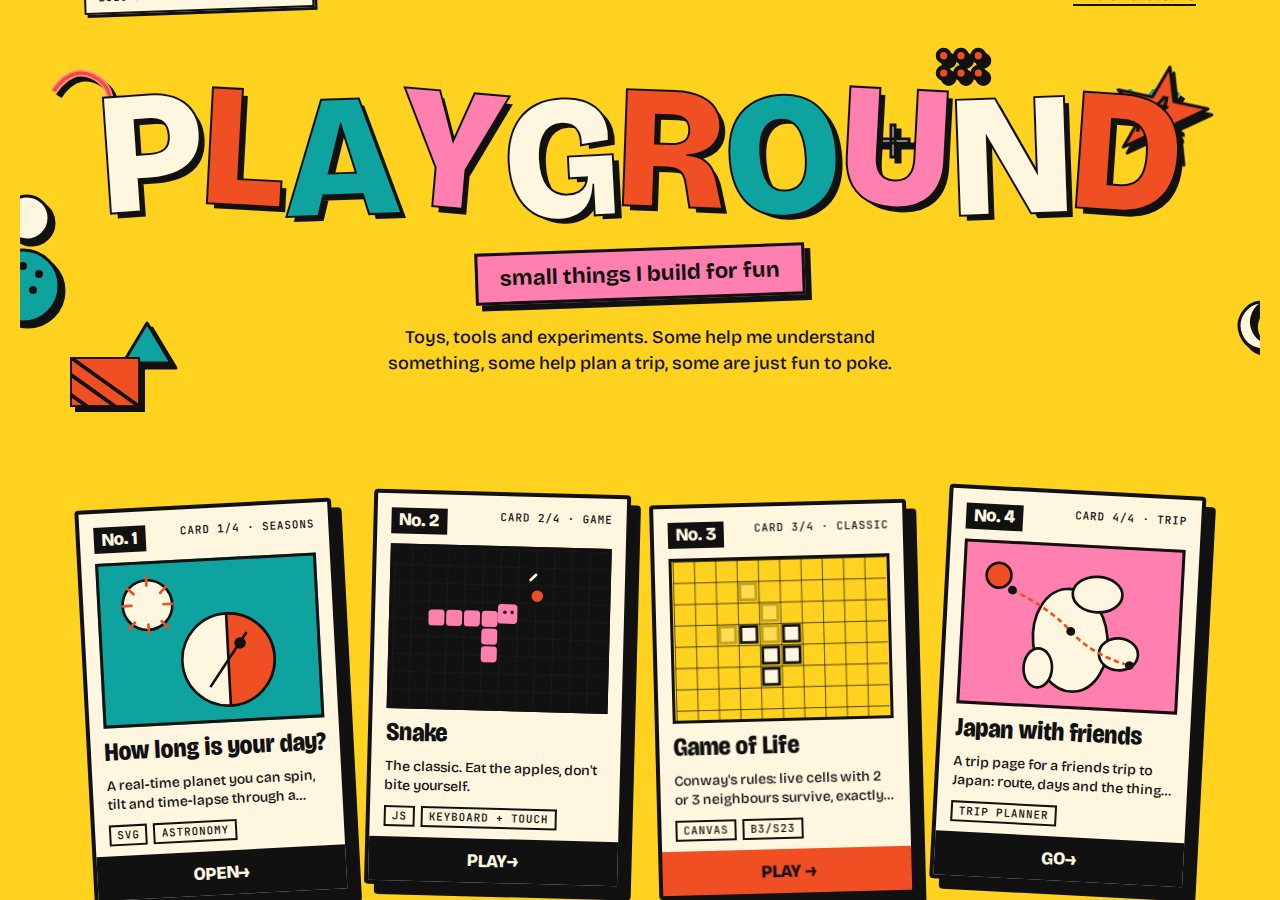
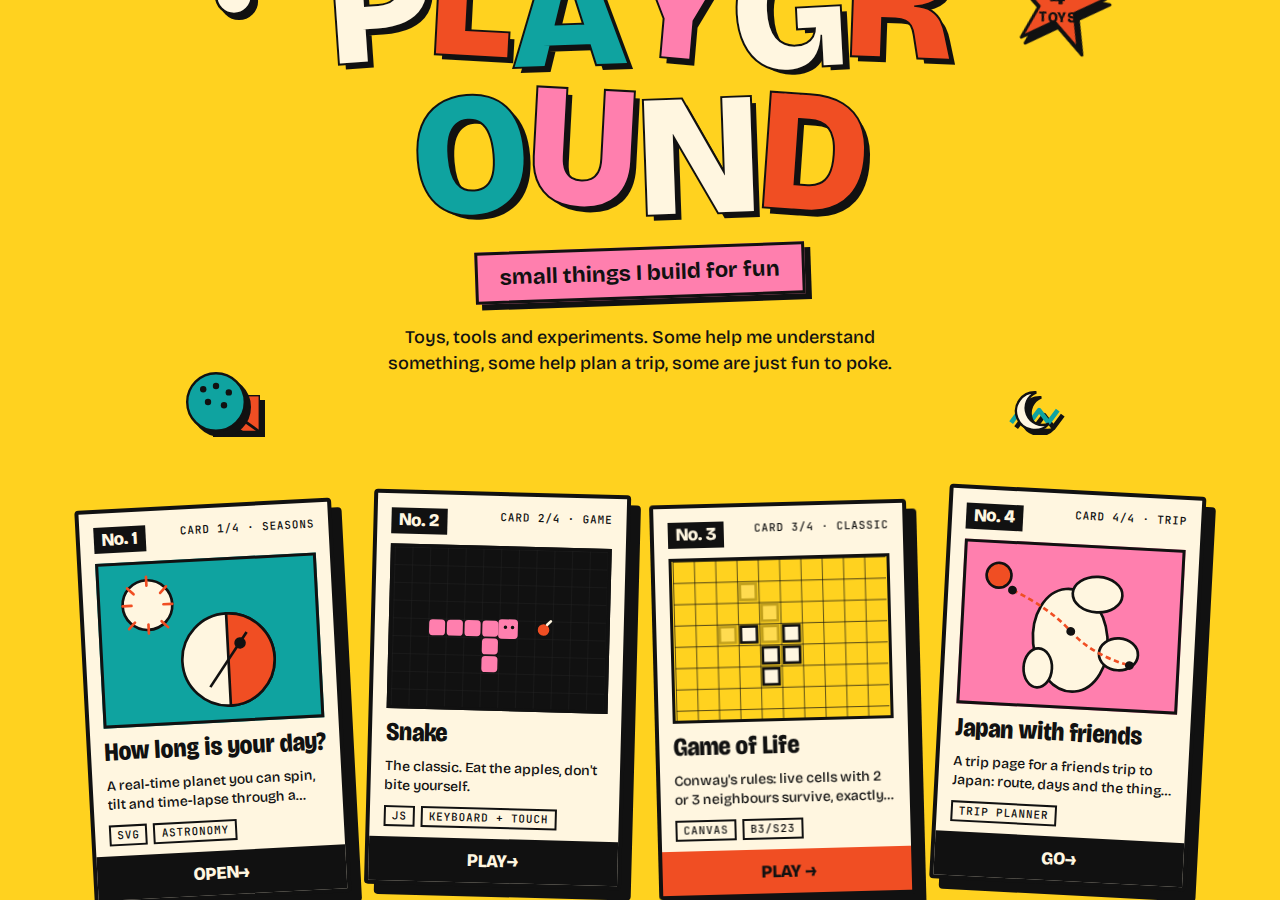
fix(playground): clear sticker overlaps, starburst label, snake grid, footer

diff --git a/playground/index.html b/playground/index.html
@@ -33,6 +33,7 @@ a{color:inherit}
 .back-link:focus-visible{outline:4px solid var(--tomato);outline-offset:4px}
 @media(max-width:640px){.back-link{display:none}}
 .hero{position:relative;padding:48px 0 64px;text-align:center}
+@media(max-width:640px){.hero{padding-bottom:100px}}
 .title{font-family:var(--display);font-size:var(--h1);font-weight:800;font-stretch:100%;line-height:.86;letter-spacing:-.01em;text-transform:uppercase;margin:0;display:flex;flex-wrap:wrap;justify-content:center;gap:0 .02em}
 @media(max-width:640px){.title{font-stretch:75%}}
 .title span{display:inline-block;-webkit-text-stroke:var(--line-lg) var(--ink);paint-order:stroke fill;text-shadow:6px 6px 0 var(--ink)}
@@ -43,24 +44,31 @@ body.ready .title span{opacity:1;transition:transform var(--t-hero) var(--ease-p
 body.ready .title span:nth-child(1){transition-delay:0ms}body.ready .title span:nth-child(2){transition-delay:40ms}body.ready .title span:nth-child(3){transition-delay:80ms}body.ready .title span:nth-child(4){transition-delay:120ms}body.ready .title span:nth-child(5){transition-delay:160ms}body.ready .title span:nth-child(6){transition-delay:200ms}body.ready .title span:nth-child(7){transition-delay:240ms}body.ready .title span:nth-child(8){transition-delay:280ms}body.ready .title span:nth-child(9){transition-delay:320ms}body.ready .title span:nth-child(10){transition-delay:360ms}
 body.ready .title span:nth-child(1){transform:rotate(-4deg) translateY(0)}body.ready .title span:nth-child(2){transform:rotate(3deg) translateY(-6px)}body.ready .title span:nth-child(3){transform:rotate(-2deg) translateY(4px)}body.ready .title span:nth-child(4){transform:rotate(5deg) translateY(-3px)}body.ready .title span:nth-child(5){transform:rotate(-3deg) translateY(6px)}body.ready .title span:nth-child(6){transform:rotate(2deg) translateY(-4px)}body.ready .title span:nth-child(7){transform:rotate(-5deg) translateY(2px)}body.ready .title span:nth-child(8){transform:rotate(3deg) translateY(-6px)}body.ready .title span:nth-child(9){transform:rotate(-2deg) translateY(3px)}body.ready .title span:nth-child(10){transform:rotate(4deg) translateY(0)}
 .ribbon{display:inline-block;margin:20px auto 0;background:var(--pink);border:var(--line) solid var(--ink);box-shadow:var(--shadow);transform:rotate(-2deg);padding:10px 22px;font:700 22px/1.2 var(--text)}
-.lede{max-width:46ch;margin:24px auto 0;font-size:18px}
-.badge-star{position:absolute;right:4%;top:8%;width:100px;height:100px;transform:rotate(12deg);filter:drop-shadow(5px 5px 0 #111)}
-.badge-star text{font-family:var(--display);font-weight:800;font-size:22px;fill:var(--ink)}
-@media(max-width:640px){.badge-star{width:72px;height:72px;right:var(--gutter);top:12%}.badge-star text{font-size:16px}}
-.stickers{pointer-events:none;position:absolute;inset:0;overflow:hidden}
+.lede{max-width:46ch;margin:24px auto 0;font-size:18px;position:relative;z-index:2}
+.hero-copy{position:relative;z-index:2;max-width:720px;margin:0 auto;padding-inline:8px}
+.badge-star{position:absolute;width:100px;height:100px;transform:rotate(12deg);filter:drop-shadow(5px 5px 0 #111);z-index:4;pointer-events:none}
+.badge-star svg{display:block;width:100%;height:100%}
+.badge-star-label{position:absolute;inset:0;display:flex;flex-direction:column;align-items:center;justify-content:center;font-family:var(--display);font-weight:800;color:var(--ink);line-height:1.05;text-align:center;transform:rotate(-12deg)}
+.badge-star-label span:first-child{font-size:26px}
+.badge-star-label span:last-child{font-size:15px;letter-spacing:.04em}
+@media(min-width:760px){.badge-star{left:calc(50% + 368px);right:auto;top:24px}}
+@media(max-width:759px){.badge-star{right:max(8px,var(--gutter));left:auto;top:16px}}
+@media(max-width:640px){.badge-star{width:72px;height:72px;right:14px;left:auto;top:118px}.badge-star-label span:first-child{font-size:20px}.badge-star-label span:last-child{font-size:11px}}
+.stickers{pointer-events:none;position:absolute;inset:0;z-index:1;overflow:visible}
 .stk{position:absolute;filter:drop-shadow(5px 5px 0 #111)}
-.stk-sq{left:2%;top:6%;width:88px}
-.stk-dots{right:22%;top:4%;width:52px}
-.stk-ring{left:-2%;top:38%;width:64px}
-.stk-tri{left:8%;bottom:18%;width:56px}
-.stk-plus{right:28%;top:22%;width:40px}
-.stk-zig{right:6%;top:14%;width:72px}
-.stk-strip{left:4%;bottom:8%;width:70px}
-.stk-polka{left:-3%;bottom:28%;width:80px}
-.stk-moon{right:-2%;bottom:22%;width:56px}
-@media(max-width:640px){.stk-plus,.stk-tri,.stk-strip,.stk-moon{display:none}.stk-sq,.stk-dots,.stk-ring,.stk-zig,.stk-polka{transform:scale(.6);transform-origin:center}}
-@media(min-width:641px) and (max-width:900px){.stk{transform:scale(.85)}}
-@media(min-width:1920px){.stk{transform:scale(1.15)}}
+.stk-sq{left:max(4px,var(--gutter));top:2px;width:64px}
+.stk-dots{right:max(4px,var(--gutter));top:2px;width:44px}
+.stk-ring{left:-22px;top:88px;width:52px}
+.stk-tri{left:max(16px,var(--gutter));bottom:12px;width:44px}
+.stk-plus{left:max(4px,var(--gutter));top:248px;width:32px}
+.stk-zig{right:max(4px,var(--gutter));top:248px;width:56px}
+.stk-strip{left:max(56px,var(--gutter));bottom:8px;width:52px}
+.stk-polka{left:-38px;bottom:6px;width:64px}
+.stk-moon{right:-22px;bottom:10px;width:44px}
+@media(min-width:760px){.stk-sq,.stk-ring,.stk-tri,.stk-strip{left:max(8px,calc(50% - 432px));right:auto}.stk-plus{left:max(8px,calc(50% - 432px));top:auto;bottom:14px}.stk-polka{left:max(-42px,calc(50% - 456px));bottom:6px}.stk-dots,.stk-zig,.stk-moon{left:calc(50% + 368px);right:auto}.stk-dots{top:2px}.stk-zig{top:auto;bottom:14px}.stk-moon{bottom:10px}}
+@media(max-width:640px){.stk-plus,.stk-tri,.stk-strip,.stk-moon{display:none}.stk-sq{top:4px;left:20px;width:50px}.stk-dots{top:4px;right:20px;width:36px}.stk-ring{top:auto;bottom:16px;left:20px;width:40px}.stk-zig{bottom:16px;right:20px;top:auto;width:48px}.stk-polka{left:8px;top:auto;bottom:10px;width:48px;transform:scale(.6);transform-origin:bottom left}}
+@media(min-width:641px) and (max-width:900px){.stk-sq,.stk-dots{width:60px}}
+@media(min-width:1920px){.stk{transform:scale(1.15);transform-origin:center}}
 .cards{margin-top:56px}
 .cards h2{font-family:var(--display);font-size:var(--h2);font-weight:800;font-stretch:88%;text-transform:uppercase;margin:0 0 28px}
 .card-grid{display:grid;gap:28px;grid-template-columns:1fr;align-items:start;justify-items:center}
@@ -116,8 +124,8 @@ body.ready .toy-card:nth-child(1){transition-delay:400ms}body.ready .toy-card:nt
 footer{padding:40px 0 56px;font-size:15px;line-height:1.6}
 footer a{text-underline-offset:3px;text-decoration-thickness:2px}
 footer a:focus-visible{outline:4px solid var(--tomato);outline-offset:2px}
-.footer-back{display:none}
-@media(max-width:640px){.footer-back{display:inline}}
+.footer-back,.footer-sep-mobile{display:none}
+@media(max-width:640px){.footer-back,.footer-sep-mobile{display:inline}}
 .snake-head{transition:transform var(--t-ui) var(--ease-out)}
 .life-g0,.life-g1{transition:opacity var(--t-ui) var(--ease-out)}
 .life-g1{opacity:0}
@@ -145,10 +153,12 @@ body:not(.ready) .title span,body:not(.ready) .toy-card{opacity:1}
 <svg class="stk stk-polka" viewBox="0 0 80 80" aria-hidden="true"><circle cx="40" cy="40" r="36" fill="var(--teal)" stroke="var(--ink)" stroke-width="3"/><g fill="var(--ink)"><circle cx="24" cy="24" r="4"/><circle cx="40" cy="20" r="4"/><circle cx="56" cy="28" r="4"/><circle cx="30" cy="40" r="4"/><circle cx="50" cy="44" r="4"/></g></svg>
 <svg class="stk stk-moon" viewBox="0 0 56 56" aria-hidden="true"><path d="M36 8a24 24 0 1 0 16 40A20 20 0 0 1 36 8z" fill="var(--cream)" stroke="var(--ink)" stroke-width="3"/></svg>
 </div>
-<svg class="badge-star" viewBox="0 0 100 100" aria-hidden="true"><polygon points="50,2 61,35 96,35 68,56 79,90 50,68 21,90 32,56 4,35 39,35" fill="var(--tomato)" stroke="var(--ink)" stroke-width="3" stroke-linejoin="round"/><text x="50" y="46" text-anchor="middle">4</text><text x="50" y="72" text-anchor="middle">TOYS</text></svg>
+<div class="hero-copy">
+<div class="badge-star" aria-hidden="true"><svg viewBox="0 0 100 100" aria-hidden="true"><polygon points="50,2 61,35 96,35 68,56 79,90 50,68 21,90 32,56 4,35 39,35" fill="#f04e23" stroke="#111" stroke-width="3" stroke-linejoin="round"/></svg><div class="badge-star-label"><span>4</span><span>TOYS</span></div></div>
 <h1 class="title" aria-label="Playground"><span class="c0" aria-hidden="true">P</span><span class="c1" aria-hidden="true">L</span><span class="c2" aria-hidden="true">A</span><span class="c3" aria-hidden="true">Y</span><span class="c0" aria-hidden="true">G</span><span class="c1" aria-hidden="true">R</span><span class="c2" aria-hidden="true">O</span><span class="c3" aria-hidden="true">U</span><span class="c0" aria-hidden="true">N</span><span class="c1" aria-hidden="true">D</span></h1>
 <p class="ribbon">small things I build for fun</p>
 <p class="lede">Toys, tools and experiments. Some help me understand something, some help plan a trip, some are just fun to poke.</p>
+</div>
 </header>
 <main class="wrap cards">
 <h2 class="sr-only">The toys</h2>
@@ -163,7 +173,7 @@ body:not(.ready) .title span,body:not(.ready) .toy-card{opacity:1}
 </a>
 <a class="toy-card card-snake" href="https://pipa.github.io/SnakeGame/" rel="noopener">
 <div class="card-head"><span class="tab">No. 2</span><span class="card-meta">Card 2/4 · Game</span></div>
-<div class="art-win" style="background:var(--ink)"><svg viewBox="0 0 240 180" aria-hidden="true"><defs><pattern id="sg" width="20" height="20" patternUnits="userSpaceOnUse"><path d="M20 0H0V20" fill="none" stroke="#222" stroke-width="1"/></pattern></defs><rect width="240" height="180" fill="url(#sg)"/><g fill="var(--pink)"><rect x="40" y="70" width="18" height="18" rx="4"/><rect x="60" y="70" width="18" height="18" rx="4"/><rect x="80" y="70" width="18" height="18" rx="4"/><rect x="100" y="70" width="18" height="18" rx="4"/><rect x="100" y="90" width="18" height="18" rx="4"/><rect x="100" y="110" width="18" height="18" rx="4"/></g><g class="snake-head"><rect x="118" y="62" width="22" height="22" rx="4" fill="var(--pink)"/><circle cx="126" cy="71" r="2" fill="var(--ink)"/><circle cx="134" cy="71" r="2" fill="var(--ink)"/></g><circle cx="162" cy="52" r="8" fill="var(--tomato)" stroke="var(--ink)" stroke-width="3"/><path d="M154 34l6-6" stroke="var(--cream)" stroke-width="3" stroke-linecap="round"/></svg></div>
+<div class="art-win" style="background:var(--ink)"><svg viewBox="0 0 240 180" aria-hidden="true"><defs><pattern id="sg" width="20" height="20" patternUnits="userSpaceOnUse"><path d="M20 0H0V20" fill="none" stroke="#222" stroke-width="1"/></pattern></defs><rect width="240" height="180" fill="url(#sg)"/><g fill="var(--pink)"><rect x="41" y="81" width="18" height="18" rx="4"/><rect x="61" y="81" width="18" height="18" rx="4"/><rect x="81" y="81" width="18" height="18" rx="4"/><rect x="101" y="81" width="18" height="18" rx="4"/><rect x="101" y="101" width="18" height="18" rx="4"/><rect x="101" y="121" width="18" height="18" rx="4"/></g><g class="snake-head"><rect x="119" y="79" width="22" height="22" rx="4" fill="var(--pink)"/><circle cx="127" cy="88" r="2" fill="var(--ink)"/><circle cx="135" cy="88" r="2" fill="var(--ink)"/></g><circle cx="170" cy="90" r="8" fill="var(--tomato)" stroke="var(--ink)" stroke-width="3"/><path d="M174 84l4-4" stroke="var(--cream)" stroke-width="3" stroke-linecap="round"/></svg></div>
 <h3>Snake</h3>
 <p class="desc">The classic. Eat the apples, don't bite yourself.</p>
 <div class="tags"><span>JS</span><span>Keyboard + touch</span></div>
@@ -196,7 +206,7 @@ body:not(.ready) .title span,body:not(.ready) .toy-card{opacity:1}
 </div>
 <footer class="wrap">
 Made by Luis Matute · plain HTML, CSS and SVG<br>
-<a href="https://luismatute.me/">luismatute.me</a> · <a href="../ds/">Design system</a> · <a class="footer-back" href="https://luismatute.me/">← luismatute.me</a>
+<a href="https://luismatute.me/">luismatute.me</a> · <a href="../ds/">Design system</a><span class="footer-sep-mobile"> · </span><a class="footer-back" href="https://luismatute.me/">← luismatute.me</a>
 </footer>
 <script>
 (function(){
